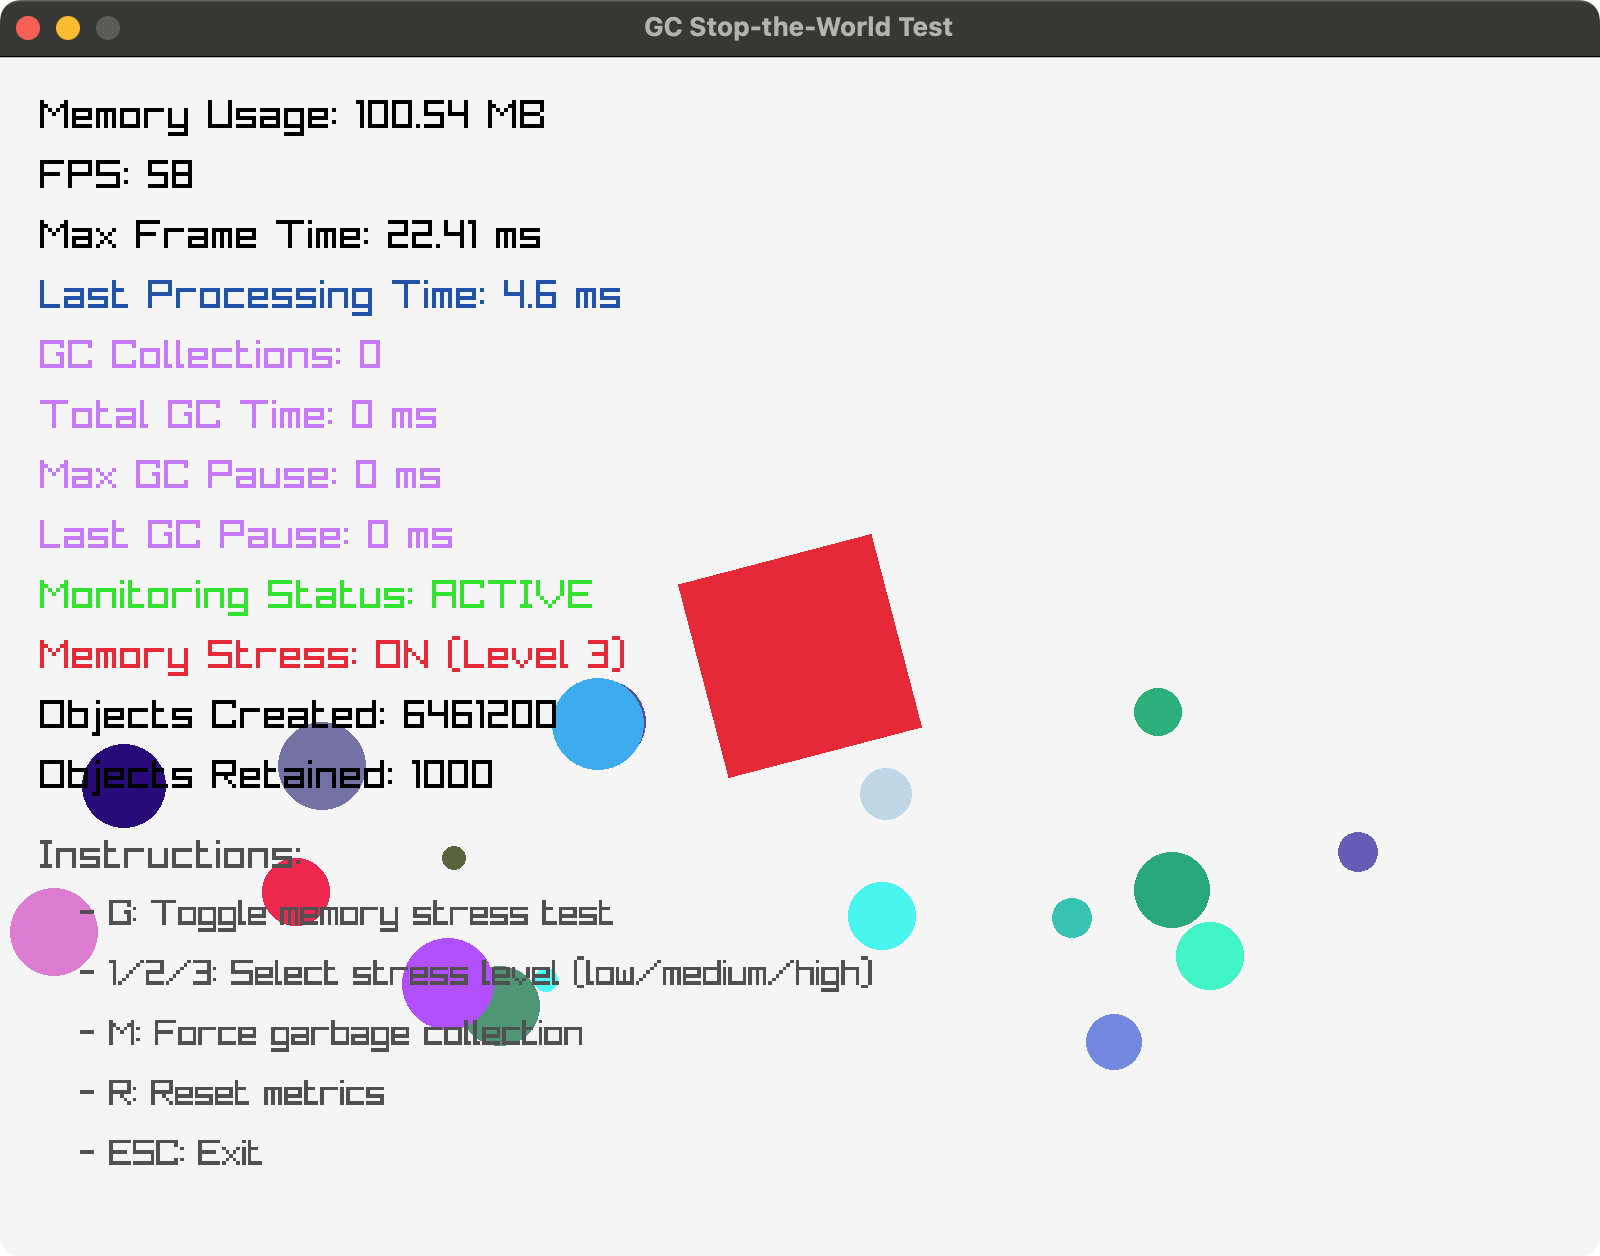
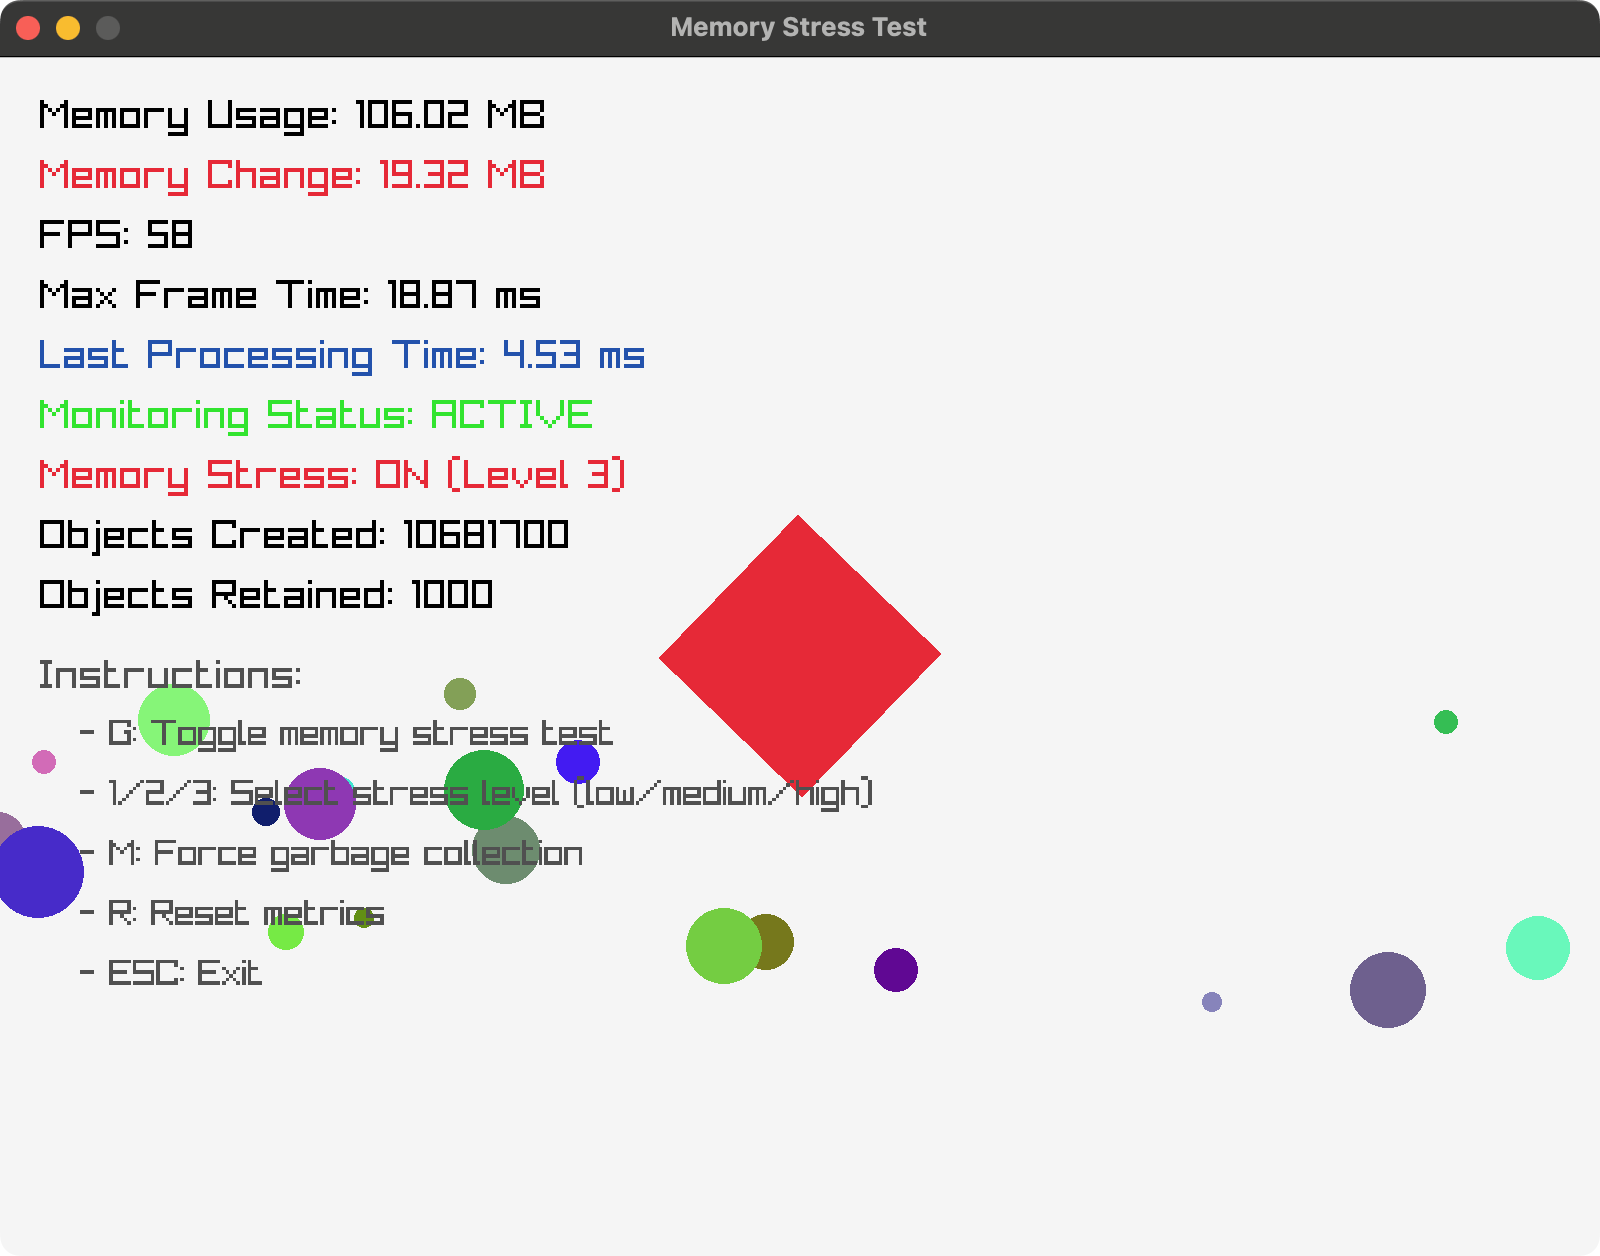
feat: removed GC stat estimation #1

diff --git a/README.md b/README.md
@@ -13,7 +13,7 @@ $ raco pkg install raylib
 ## Usage
 
 ```bash
-$ racket gc-monitoring-raylib.rkt
+$ racket memory-stress-test-raylib.rkt
 ``` 
 
 ## Rust code for comparison
